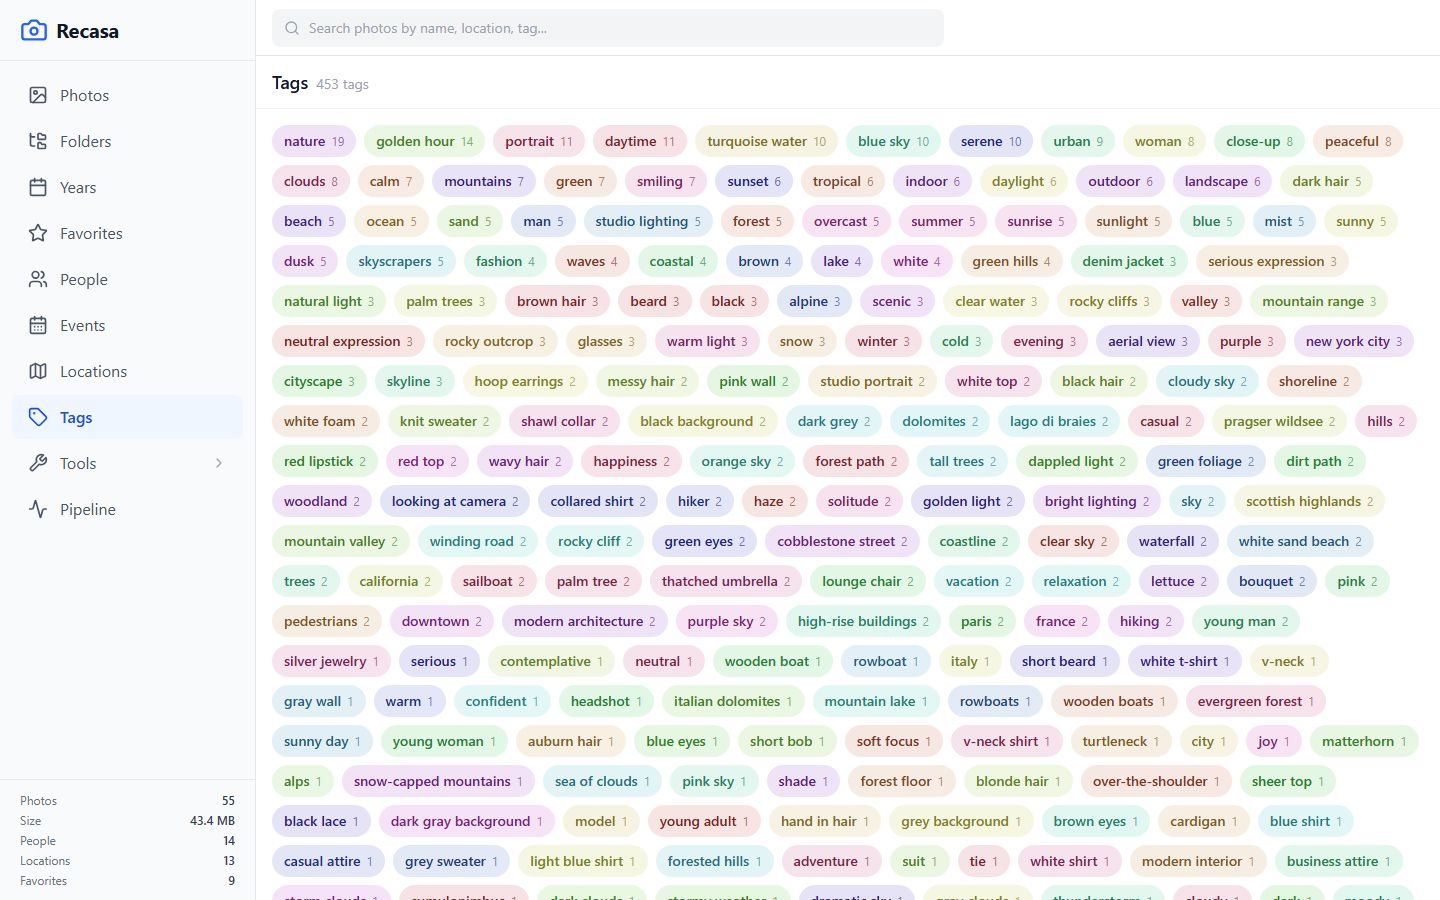
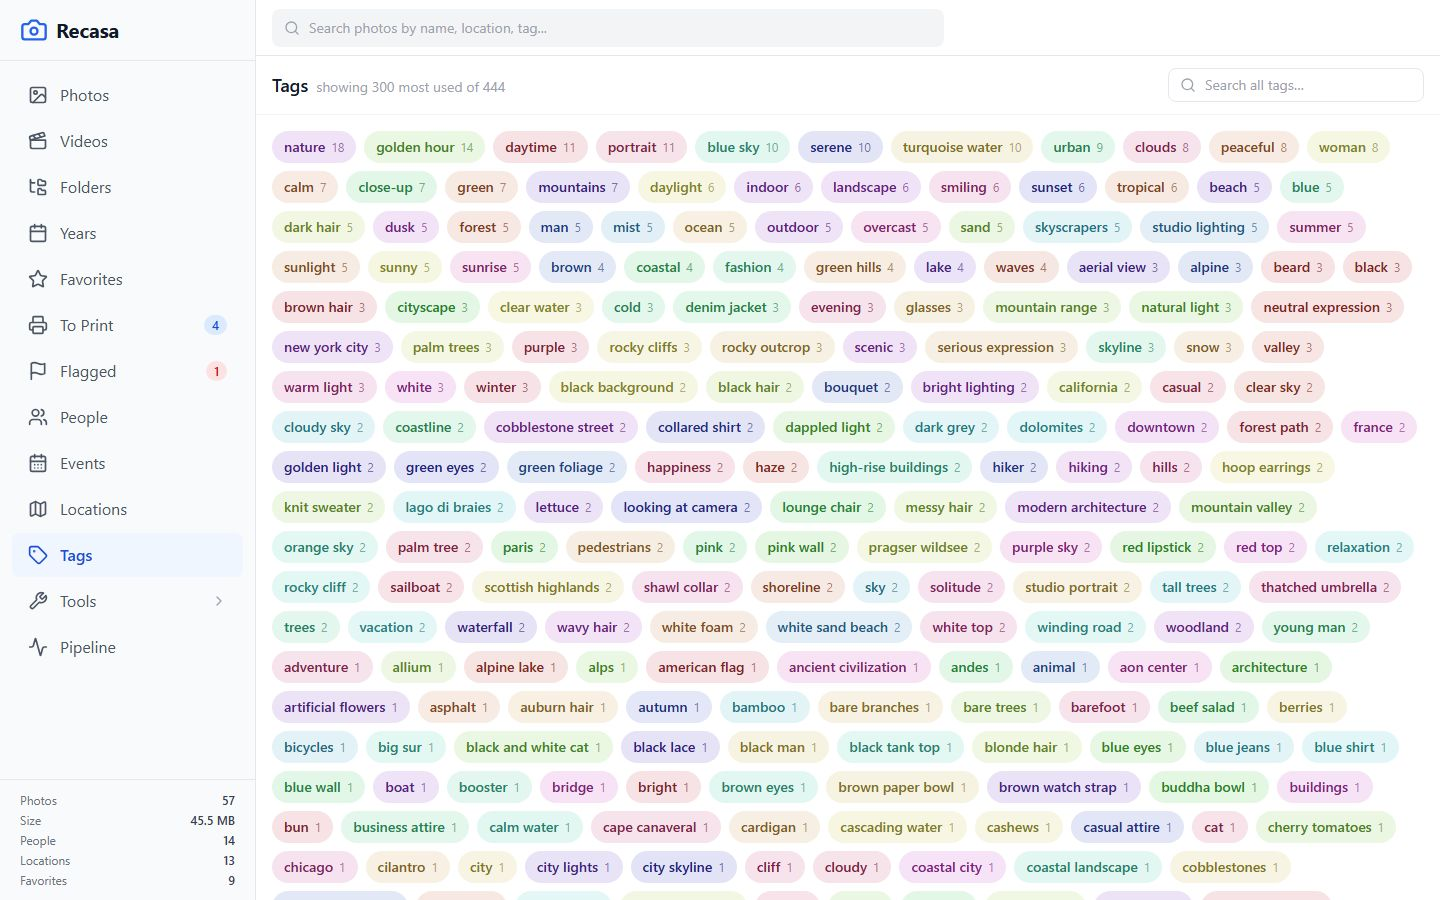
Rework README into a feature showcase; refresh screenshots
Lead with a Highlights section that pairs each marquee feature
(timeline, videos, people, year previews, To Print, pipeline) with a
screenshot, followed by a compact full feature list. All screenshots
are regenerated from the demo instance on the CC0 stock photo set and
now reflect the current UI, including the new Videos, year-preview,
Flagged, and duplicate-flag features and date search.

diff --git a/README.md b/README.md
@@ -1,8 +1,64 @@
 # Recasa
 
+**A self-hosted photo & video manager that runs entirely on your own machine.**
+Browse your library by time, people, places, events, and tags — with face
+detection, duplicate finding, and AI tagging all processed locally. Nothing is
+ever uploaded; your photos are mounted read-only into the container.
+
 ![Timeline](docs/screenshots/timeline.jpg)
 
-Self-hosted photo manager. Browse and organize photos by people, places, events, and tags -- all processed locally on your machine.
+---
+
+## Highlights
+
+### Timeline for photos and videos
+
+Everything lands on one scrollable timeline, grouped by month. Videos are
+indexed alongside photos with a poster frame and duration, and get their own
+section too.
+
+![Videos grouped by month with posters and durations](docs/screenshots/videos.jpg)
+
+### People
+
+Faces are detected and clustered into people you can name. Recasa finds who
+appears together and lets you ignore clusters you don't care about.
+
+![Detected faces clustered into named people](docs/screenshots/people.jpg)
+
+### Browse by year
+
+Each year is a card with a strip of preview photos sampled across the year, so
+you can jump straight to the era you're looking for.
+
+![Year cards with preview photos](docs/screenshots/years.jpg)
+
+### To Print
+
+Collect photos for printing the way you favorite them, review print quality
+(resolution and effective DPI at common sizes) per photo, then download a
+print-ready zip — HEIC converted to JPEG — to upload to any print service.
+
+![To Print list with per-photo print-quality details](docs/screenshots/to-print.jpg)
+
+### Processing pipeline, honestly reported
+
+A single dashboard shows whether the library is being watched or processed,
+what's pending, and which files are genuinely unreadable — listed with reasons
+instead of being retried forever.
+
+![Pipeline processing dashboard](docs/screenshots/pipeline.jpg)
+
+### AI tags &nbsp;·&nbsp; Duplicates &nbsp;·&nbsp; Flag for removal
+
+| | |
+|---|---|
+| ![AI-generated scene and object tags](docs/screenshots/tags.jpg) | ![Perceptual-hash duplicate groups](docs/screenshots/duplicates.jpg) |
+| *AI tags (top tags + search across all)* | *Duplicate detection* |
+| ![Photos flagged for manual removal with paths](docs/screenshots/flagged.jpg) | ![Full-screen photo viewer](docs/screenshots/photo-viewer.jpg) |
+| *Flag for removal (recasa never deletes)* | *Full-screen viewer* |
+
+---
 
 ## Installation
 
@@ -26,49 +82,39 @@ Then start the container:
 docker compose up -d
 ```
 
-Open http://localhost:8080. Recasa will scan your photos and index them. Processing progress is shown in the UI.
+Open http://localhost:8080. Recasa scans your library and indexes it in the
+background; progress is shown on the Pipeline page. New, changed, and removed
+files are picked up automatically thereafter — including on Docker Desktop,
+where filesystem events don't reach the container.
 
-## Features
+## All features
 
-- **Timeline** -- photos grouped by month and year
-- **People** -- face detection and clustering into renameable persons
-- **Events** -- automatic grouping by time and location
-- **Map** -- geotagged photos on OpenStreetMap, with a Hero Trail mode that replays your route chronologically
-- **Search** -- file names, locations, tags, captions, and people
-- **Tags** -- AI-generated scene/object tags (requires Ollama)
-- **Captions** -- natural language descriptions per photo (requires Ollama)
-- **Duplicates** -- perceptual hash grouping (pHash/aHash/dHash)
-- **Favorites** -- star photos from the grid or viewer
-- **To Print** -- collect photos for printing, check print quality (DPI) per photo, download as a print-ready zip with HEIC converted to JPEG
-- **Folders** -- browse by original directory structure
-- **Years** -- quick access to any year
-- **Live Photos** -- hover-to-play for Apple Live Photos and Google Motion Photos
-- **EXIF** -- camera, lens, exposure, GPS metadata
-- **Reverse geocoding** -- GPS coordinates to city/country names, offline with no API keys
-- **Automatic pickup** -- new, changed, and removed photos are detected within minutes, including on Docker Desktop where filesystem events don't reach the container
-- **Pipeline dashboard** -- processing status at a glance, with unreadable files tracked and listed instead of retried forever
-- **Grid views** -- three thumbnail sizes, cropped squares or full photos
-
-Photos are never uploaded. They are mounted read-only into the container.
-
-## Screenshots
-
-| | |
-|---|---|
-| ![Timeline view with photos grouped by month](docs/screenshots/timeline.jpg) | ![Full-screen photo viewer](docs/screenshots/photo-viewer.jpg) |
-| *Timeline* | *Photo viewer* |
-| ![Photo detail with EXIF info panel](docs/screenshots/photo-detail.jpg) | ![Auto-detected events with cover photos](docs/screenshots/events.jpg) |
-| *Photo detail and EXIF* | *Events* |
-| ![Detected faces clustered into people](docs/screenshots/people.jpg) | ![Hero Trail replaying route on map](docs/screenshots/hero-trail.jpg) |
-| *People* | *Hero Trail* |
-| ![Search across names, tags, and captions](docs/screenshots/search.jpg) | ![AI-generated tags](docs/screenshots/tags.jpg) |
-| *Search* | *Tags* |
-| ![Folder browser](docs/screenshots/folders.jpg) | ![Starred favorite photos](docs/screenshots/favorites.jpg) |
-| *Folders* | *Favorites* |
-| ![Photo collage generator with grid options](docs/screenshots/collage.jpg) | ![Export and import user data](docs/screenshots/export-import.jpg) |
-| *Collage generator* | *Export / Import* |
-| ![To Print list with print quality details](docs/screenshots/to-print.jpg) | ![Pipeline processing dashboard](docs/screenshots/pipeline.jpg) |
-| *To Print* | *Pipeline* |
+- **Timeline** — photos and videos grouped by month and year
+- **Videos** — standalone videos indexed with poster frames and duration, on
+  their own page and inline in every view (Apple Live Photo movies are detected
+  and kept attached to their photo, not listed separately)
+- **People** — face detection and clustering into renameable persons, plus
+  "appears together" groups
+- **Events** — automatic grouping by time and location
+- **Map** — geotagged photos on OpenStreetMap, with a Hero Trail mode that
+  replays your route chronologically
+- **Search** — file names, locations, tags, captions, people, and dates
+  (e.g. "2013 august")
+- **Tags** — AI-generated scene/object tags (requires Ollama)
+- **Captions** — natural-language descriptions per photo (requires Ollama)
+- **Duplicates** — perceptual-hash grouping (pHash/aHash/dHash), flag a copy
+  right from the group
+- **Favorites** — star photos from the grid or viewer
+- **To Print** — collect, quality-check, and export a print-ready zip
+- **Flag for removal** — mark photos to delete yourself; they're hidden from all
+  views and listed with their paths (recasa never deletes your files)
+- **Folders** — browse by original directory structure
+- **Years** — year cards with preview photos
+- **Live Photos** — hover-to-play for Apple Live Photos and Google Motion Photos
+- **EXIF** — camera, lens, exposure, GPS metadata
+- **Reverse geocoding** — GPS to city/country names, offline, no API keys
+- **Grid views** — three thumbnail sizes; cropped squares or full photos
+- **Collages** — generate a shareable collage from any view
 
 ## Configuration
 
@@ -98,7 +144,8 @@ Each stage can be toggled independently. Already-processed photos are skipped on
 
 ### Ollama (optional)
 
-Tags and captions require [Ollama](https://ollama.com) with a vision model. Without it, all other features work normally.
+Tags and captions require [Ollama](https://ollama.com) with a vision model.
+Without it, all other features work normally.
 
 ```bash
 docker run -d --name ollama -p 11434:11434 ollama/ollama
@@ -115,6 +162,10 @@ ENABLE_CAPTIONING=true
 ## Supported formats
 
 **Photos:** JPEG, PNG, WebP, HEIC/HEIF, TIFF, BMP
+
+**Videos:** MP4, MOV, AVI, MKV (poster + metadata always work; in-browser
+playback depends on the codec — modern H.264/H.265 play directly, older
+formats offer a download link)
 
 **Live Photos:** Apple (HEIC+MOV paired), Google Motion Photos (embedded MP4)
 
